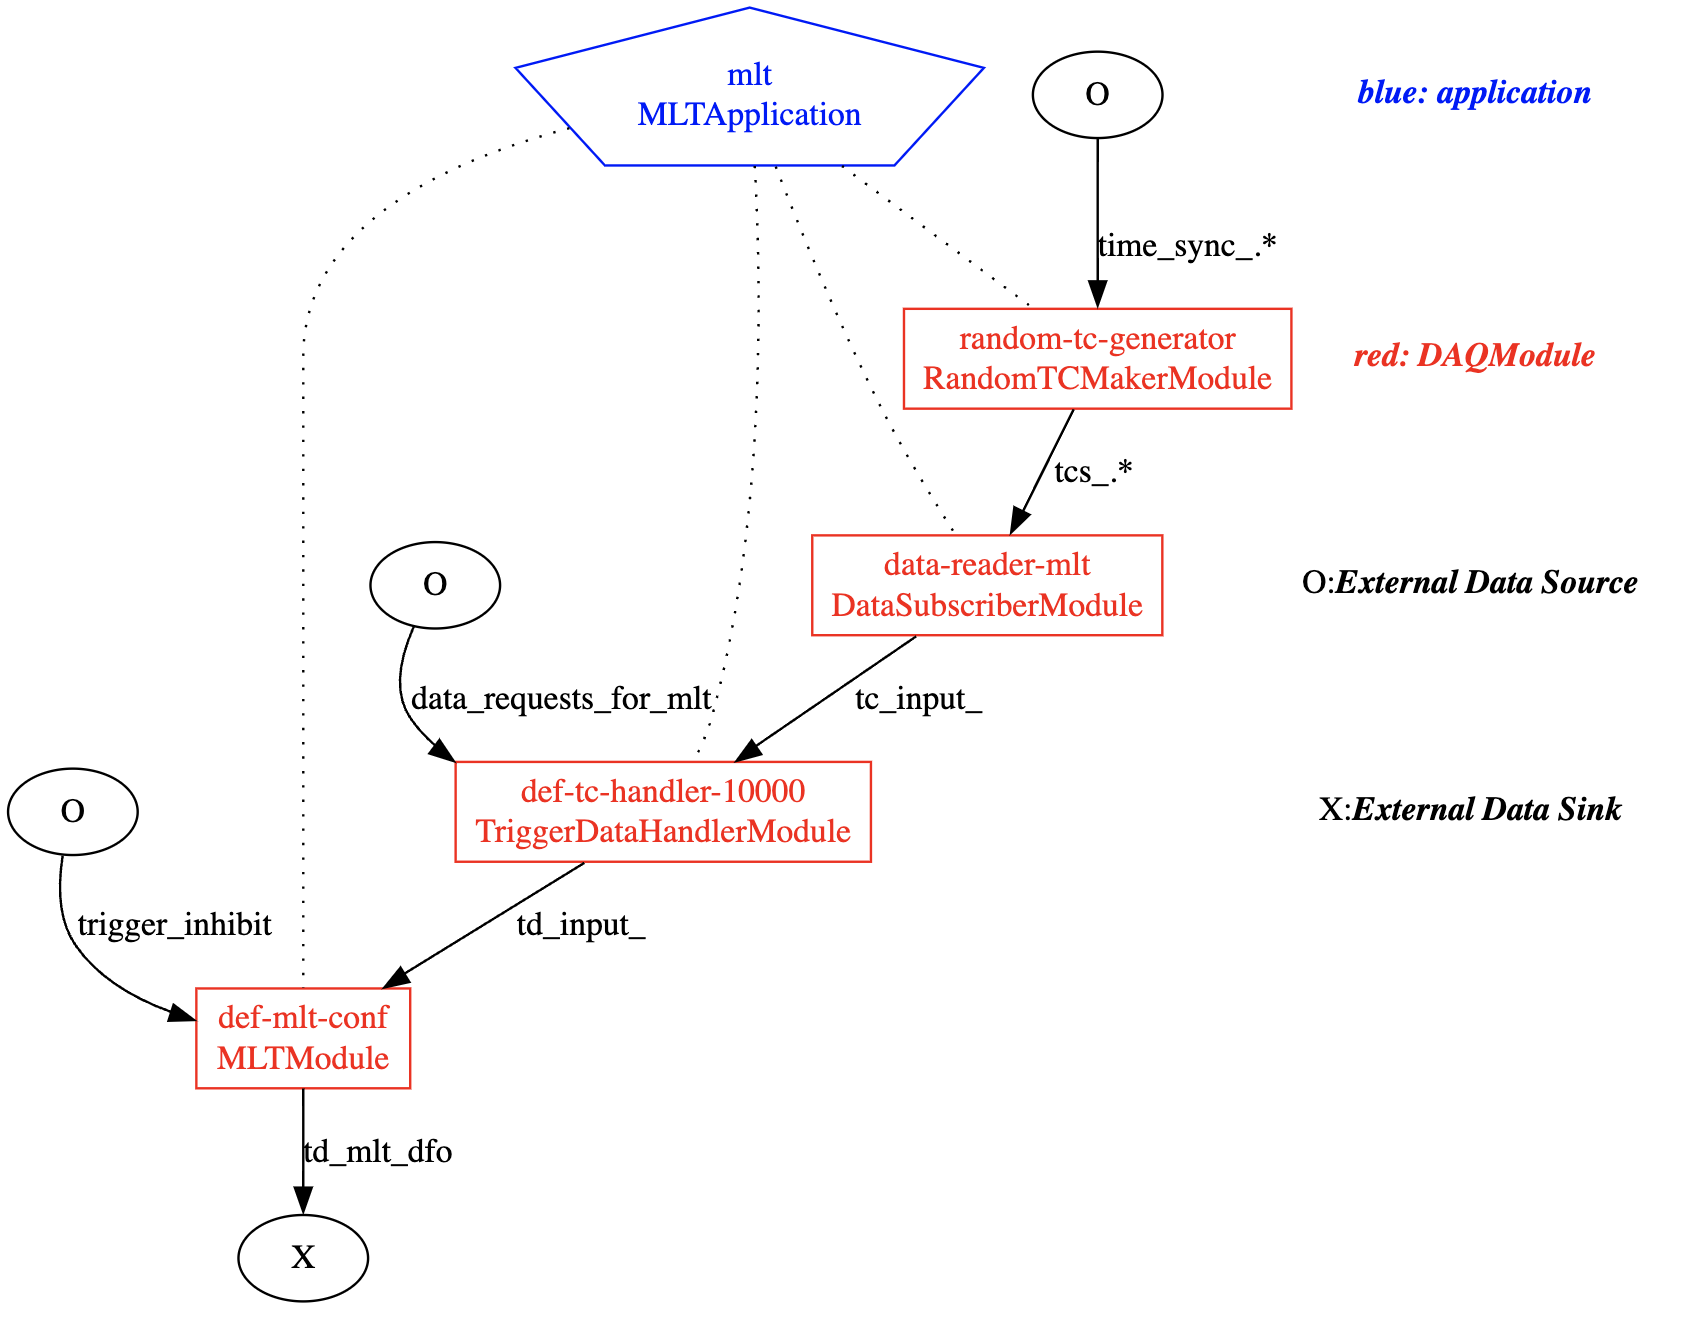
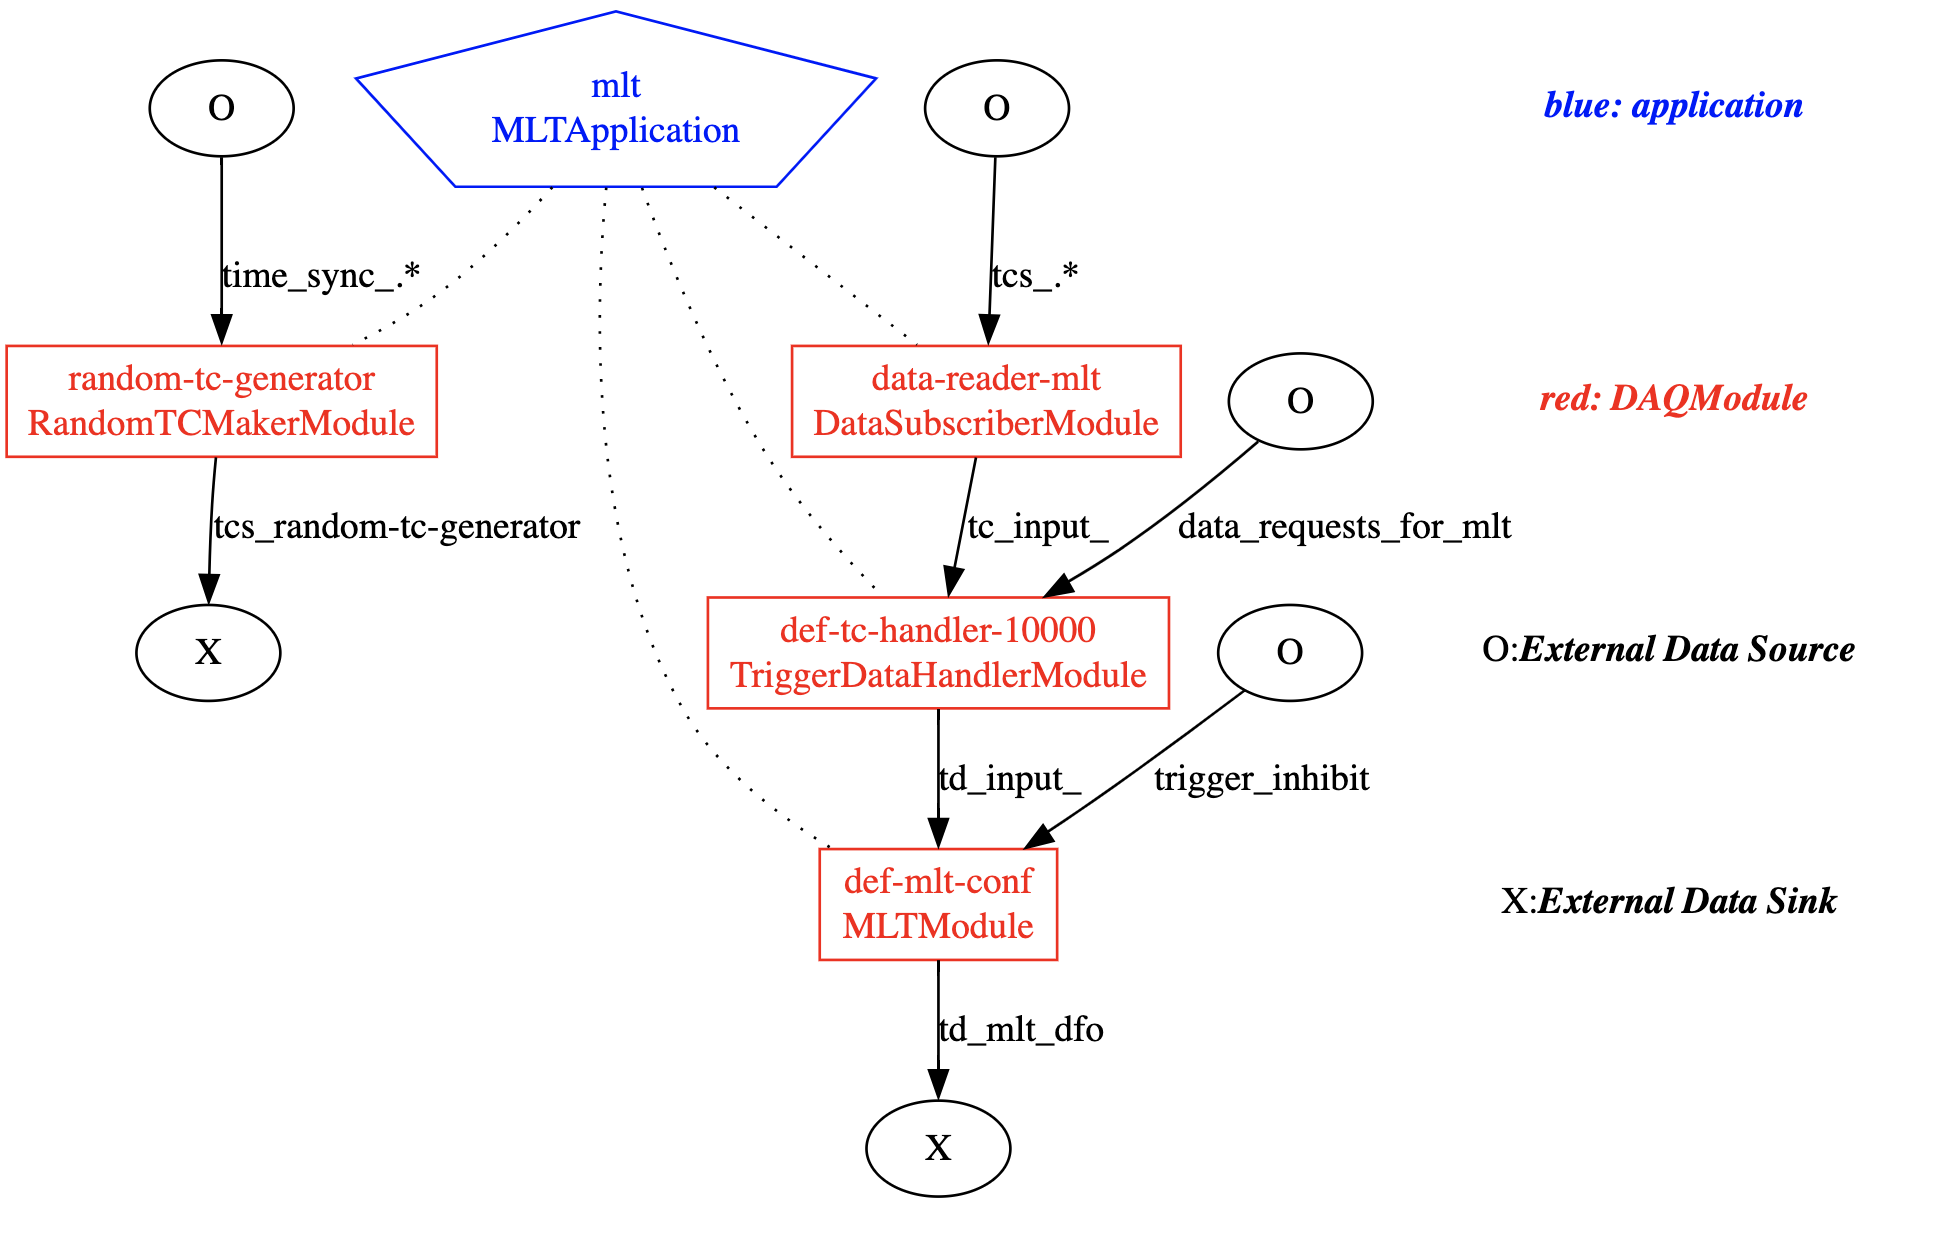
""

diff --git a/docs/packages/daqconf/ConfigPlotting.md b/docs/packages/daqconf/ConfigPlotting.md
@@ -25,7 +25,18 @@ Note that while `dot` is available on the np04 cluster's system, it's not necess
 
 ## Examples
 
+### A Module Level Trigger application
+
+This MLT application plot is taken from the `local-1x1-config` in the daqsystemtest repo (as of Nov-6-2024). Notice that the `DataSubscriberModule` instance would receive, among other `tcs_.*` messages received over the network, `tcs_random-tc-generator` messages sent by the `RandomTCMakerModule` instance in the same application:
+
 ![image](create_config_plot/mlt_plot.png)
+
+### A full Session
+
+This is the full session associated with the `local-1x1-config` in the daqsystemtest repo. Notice here you can see the loopback effect for the MLT application described above:
+
+![image](create_config_plot/session_plot.png)
+
 
 
 -----
@@ -36,7 +47,7 @@ _Last git commit to the markdown source of this page:_
 
 _Author: John Freeman_
 
-_Date: Thu Oct 24 09:20:54 2024 -0500_
+_Date: Wed Nov 6 13:20:01 2024 -0600_
 
 _If you see a problem with the documentation on this page, please file an Issue at [https://github.com/DUNE-DAQ/daqconf/issues](https://github.com/DUNE-DAQ/daqconf/issues)_
 </font>

diff --git a/docs/packages/trigger/integtest/README.md b/docs/packages/trigger/integtest/README.md
@@ -12,6 +12,8 @@ For reference, here are the ideas behind the existing tests:
 
 * `td_leakage_between_runs_test.py` - tests whether TriggerDecision messages received by the DFO have the correct run number in certain special conditions
 
+* `change_rate_test.py` - Tests whether the change-rate command properly changes the rate of the RTCM and not the FakeHSI
+
 
 -----
 
@@ -19,9 +21,9 @@ For reference, here are the ideas behind the existing tests:
 _Last git commit to the markdown source of this page:_
 
 
-_Author: Kurt Biery_
+_Author: Eric Flumerfelt_
 
-_Date: Thu Dec 28 13:23:12 2023 -0600_
+_Date: Tue Nov 5 12:26:43 2024 -0600_
 
 _If you see a problem with the documentation on this page, please file an Issue at [https://github.com/DUNE-DAQ/trigger/issues](https://github.com/DUNE-DAQ/trigger/issues)_
 </font>
